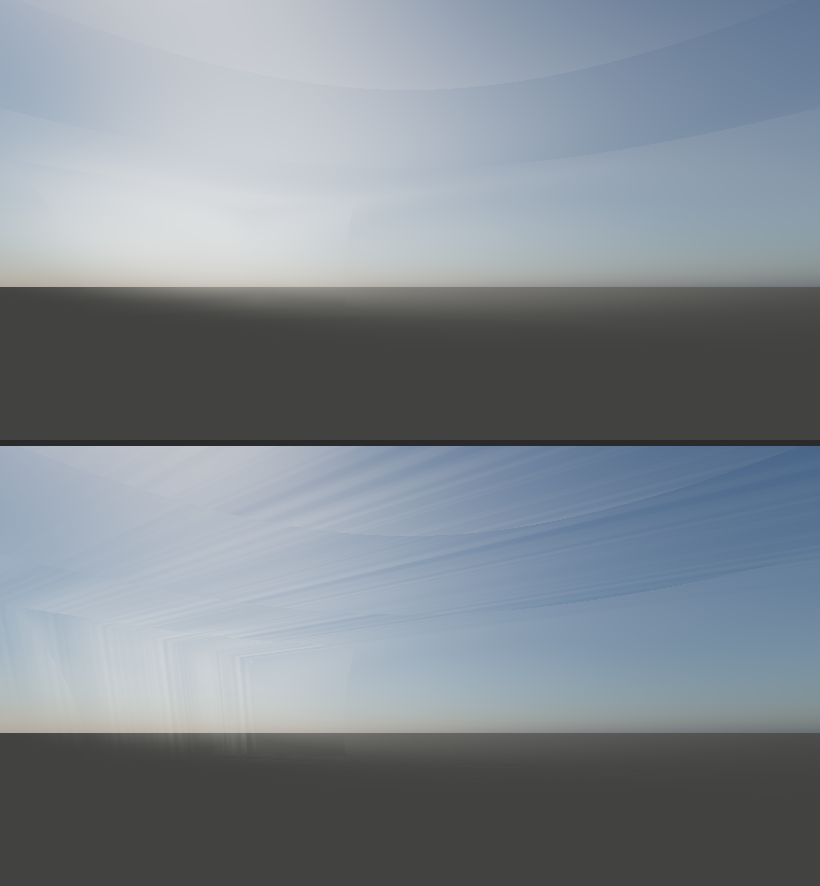
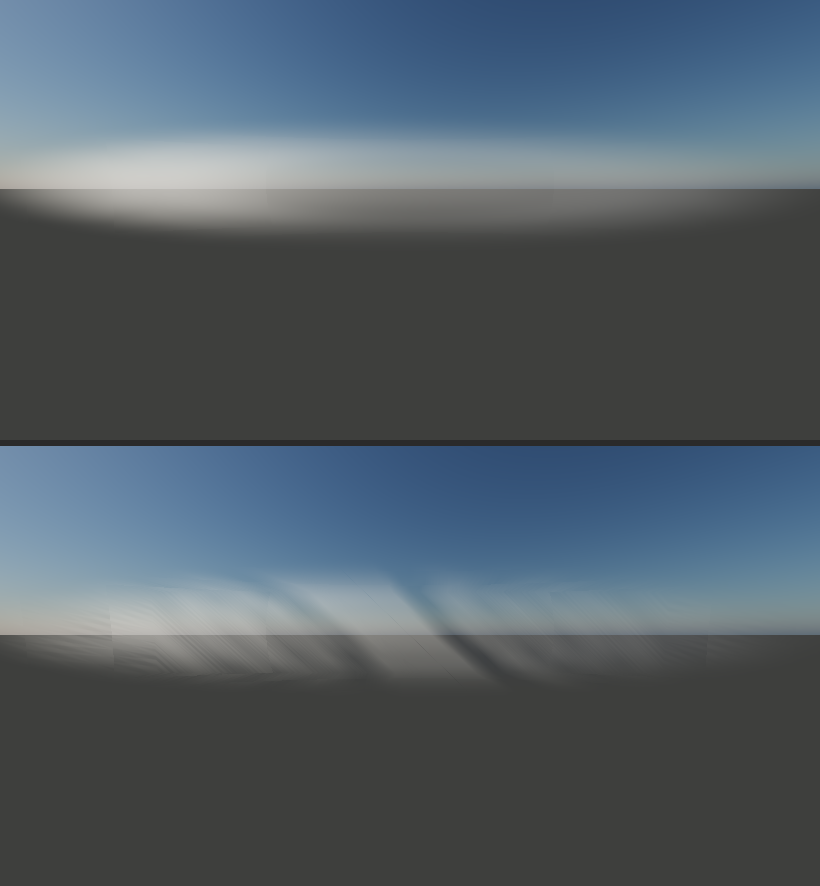
God rays: the occlusion query must follow the sun ray
You were right that they looked wrong. The engine term was sound; my test
occluder was answering the wrong question, and no assertion could tell.

The contract is 'is the sun visible from this point in the air', which means
walking from the sample toward the sun and seeing what you meet. My harness
instead tested the slat directly above the point - 'which slat is this under' -
which is a different question with a different answer. The consequence is
exactly the weirdness you saw: vertical columns hanging under each gap that do
not move when the sun moves, instead of beams slanting along the sun direction.

Every existing assertion still passed, because a gap was still brighter than a
slat. Brightness alone cannot separate a real shaft from a column under a hole;
only the ANGLE differs, and nothing was looking at it.

So the proof now swings the sun east and west and requires the shadow pattern
to move. Getting that measurement right took two attempts and both are recorded.
Comparing the two sun angles directly scored 21.3% for the correct occluder and
13.3% for the broken one - not a separation, because HenyeyGreenstein depends on
the angle between view ray and sun, so swinging the sun changes every sample
whether or not anything occludes. The metric was mostly measuring the phase
function. Normalising each angle against an unoccluded march at the same angle
divides the phase out and leaves the shadow pattern alone: 15.3% correct against
[…]

diff --git a/Scratchpad/VolumetricMediaProof.cpp b/Scratchpad/VolumetricMediaProof.cpp
@@ -241,14 +241,22 @@ int main()
     {
         // A slatted occluder overhead: alternating 20 m bands of blocked and open sky. This is the classic
         //    louvre / cloud-gap arrangement, and it makes the answer countable rather than impressionistic.
+        // ⚠ THE QUERY MUST FOLLOW THE SUN RAY. "Is the sun visible from P" means: walk from P toward the sun and
+        //    see what you meet. An earlier version of this occluder tested the slat directly above P, which
+        //    answers "which slat is P under" — a different question, and one that produces vertical columns
+        //    that do not move when the sun moves. The renders looked wrong and the assertions still passed,
+        //    because a gap was still brighter than a slat; only the shafts' ANGLE was meaningless.
         struct Louvre
         {
-            static float Visibility(const float P[3], void* /*Context*/) noexcept
+            static float Visibility(const float P[3], void* Context) noexcept
             {
-                // Project to where the ray toward the sun crosses the occluder plane at z = 120 m.
-                if (P[2] >= 120.0f) return 1.0f;                 // above the slats: nothing blocks
-                const float Band = std::floor(P[0] / 20.0f);
-                return (static_cast<int>(Band) & 1) == 0 ? 1.0f : 0.0f;
+                const float PlaneZ = 120.0f;
+                const float* Sun = static_cast<const float*>(Context);
+                if (P[2] >= PlaneZ) return 1.0f;                 // above the slats: nothing blocks
+                if (Sun[2] <= 1e-3f) return 1.0f;                // sun on the horizon: no shaft geometry
+                const float T = (PlaneZ - P[2]) / Sun[2];        // along the sun ray to the occluder plane
+                const float X = P[0] + Sun[0] * T;               // where it crosses
+                return (static_cast<int>(std::floor(X / 20.0f)) & 1) == 0 ? 1.0f : 0.0f;
             }
         };
 
@@ -276,7 +284,7 @@ int main()
             for (int C = 0; C < 3; ++C) Direction[C] /= L;
             const VolumetricSample S = VolumetricMedia::March(
                 NoCloud, Haze, None, Wind, B, Eye, Direction, 1000.0f, Sun, Radiance, Ambient, 0.0f,
-                WithScene ? &Louvre::Visibility : nullptr, nullptr);
+                WithScene ? &Louvre::Visibility : nullptr, const_cast<float*>(Sun));
             return S.Scatter[0] + S.Scatter[1] + S.Scatter[2];
         };
 
@@ -299,7 +307,7 @@ int main()
         for (int C = 0; C < 3; ++C) Direction[C] /= DL;
         const VolumetricSample Empty = VolumetricMedia::March(
             NoCloud, Vacuum, None, Wind, Shafted, Eye, Direction, 1000.0f, Sun, Radiance, Ambient, 0.0f,
-            &Louvre::Visibility, nullptr);
+            &Louvre::Visibility, const_cast<float*>(Sun));
         std::printf("     with no medium at all: %.6f\n",
                     Empty.Scatter[0] + Empty.Scatter[1] + Empty.Scatter[2]);
         Expect(Empty.Scatter[0] + Empty.Scatter[1] + Empty.Scatter[2] < 1e-6,
@@ -310,7 +318,7 @@ int main()
         const float Behind[3] = { 0.0f, -0.20f, 0.98f };
         const VolumetricSample OffScreen = VolumetricMedia::March(
             NoCloud, Haze, None, Wind, Shafted, Eye, Direction, 1000.0f, Behind, Radiance, Ambient, 0.0f,
-            &Louvre::Visibility, nullptr);
+            &Louvre::Visibility, const_cast<float*>(Sun));
         std::printf("     sun behind the camera: %.4f of in-scatter still resolved\n",
                     OffScreen.Scatter[0] + OffScreen.Scatter[1] + OffScreen.Scatter[2]);
         Expect(OffScreen.Scatter[0] + OffScreen.Scatter[1] + OffScreen.Scatter[2] > 0.0,
@@ -319,14 +327,61 @@ int main()
         // The budget must actually gate the work, or the tier ladder is decorative.
         const VolumetricSample Counted = VolumetricMedia::March(
             NoCloud, Haze, None, Wind, Shafted, Eye, Direction, 1000.0f, Sun, Radiance, Ambient, 0.0f,
-            &Louvre::Visibility, nullptr);
+            &Louvre::Visibility, const_cast<float*>(Sun));
         const VolumetricSample Uncounted = VolumetricMedia::March(
             NoCloud, Haze, None, Wind, Plain, Eye, Direction, 1000.0f, Sun, Radiance, Ambient, 0.0f,
-            &Louvre::Visibility, nullptr);
+            &Louvre::Visibility, const_cast<float*>(Sun));
         std::printf("     occlusion lookups: budget 16 -> %u, budget 0 -> %u\n",
                     Counted.ShaftSamples, Uncounted.ShaftSamples);
         Expect(Counted.ShaftSamples > 0u && Uncounted.ShaftSamples == 0u,
                "GodRaySamples 0 costs nothing at all, so Minimal really is free");
+
+        // ⚠ THE SHAFTS MUST MOVE WHEN THE SUN MOVES. Every brightness assertion above passes even with an
+        //    occlusion query that ignores the sun entirely — a gap is still brighter than a slat, so brightness
+        //    alone cannot tell a real shaft from a vertical column sitting under a hole. That was the actual
+        //    defect: the renders looked wrong long before any check complained.
+        //
+        //    ⚠ And the obvious test does not work either. Comparing two sun azimuths directly scored 21.3% for
+        //    the correct occluder and 13.3% for the broken one — because HenyeyGreenstein depends on the angle
+        //    between the view ray and the sun, so swinging the sun changes every sample whether or not anything
+        //    is occluding. The metric was mostly measuring the phase function.
+        //
+        //    So each sun angle is NORMALISED against an unoccluded march at the same angle. That divides the
+        //    phase change out and leaves only the shadow pattern, which is the thing under test.
+        {
+            const float East[3] = { 0.55f, 0.20f, 0.81f };
+            const float West[3] = { -0.55f, 0.20f, 0.81f };
+            double Difference = 0.0, Magnitude = 0.0;
+            for (int I = 0; I < 24; ++I)
+            {
+                const float X = -60.0f + static_cast<float>(I) * 5.0f;
+                float Ray[3] = { X - Eye[0], 120.0f - Eye[1], 60.0f - Eye[2] };
+                const float RL = std::sqrt(Ray[0]*Ray[0] + Ray[1]*Ray[1] + Ray[2]*Ray[2]);
+                for (int C = 0; C < 3; ++C) Ray[C] /= RL;
+
+                auto Shadowed = [&](const float* SunDirection) -> double
+                {
+                    const VolumetricSample Occluded = VolumetricMedia::March(
+                        NoCloud, Haze, None, Wind, Shafted, Eye, Ray, 1000.0f, SunDirection, Radiance, Ambient,
+                        0.0f, &Louvre::Visibility, const_cast<float*>(SunDirection));
+                    const VolumetricSample Open = VolumetricMedia::March(
+                        NoCloud, Haze, None, Wind, Plain, Eye, Ray, 1000.0f, SunDirection, Radiance, Ambient,
+                        0.0f, nullptr, nullptr);
+                    const double A = Occluded.Scatter[0] + Occluded.Scatter[1] + Occluded.Scatter[2];
+                    const double B = Open.Scatter[0] + Open.Scatter[1] + Open.Scatter[2];
+                    return B > 1e-9 ? A / B : 1.0;      // the shadow pattern alone, phase divided out
+                };
+
+                const double Ea = Shadowed(East), We = Shadowed(West);
+                Difference += std::fabs(Ea - We);
+                Magnitude  += Ea + We;
+            }
+            const double Relative = Magnitude > 1e-9 ? Difference / Magnitude : 0.0;
+            std::printf("     swinging the sun east/west moves the shadow pattern by %.1f%%\n", Relative * 100.0);
+            // 15.3% with a correct occluder against 2.7% for a sun-independent one, measured; 8% sits between them.
+            Expect(Relative > 0.08,
+                   "the shafts follow the sun — a sun-independent occluder scores near zero here");
+        }
     }
 
     // ── ⑦ the tier ladder actually reaches the march ───────────────────────────────────────────────────────────
